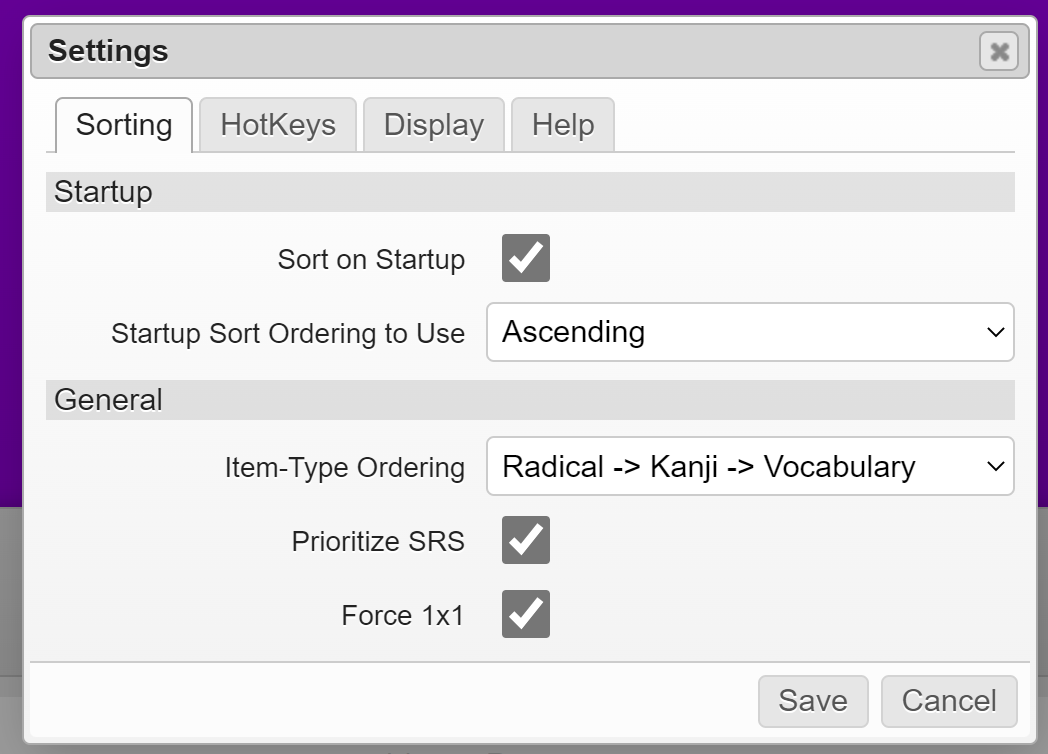
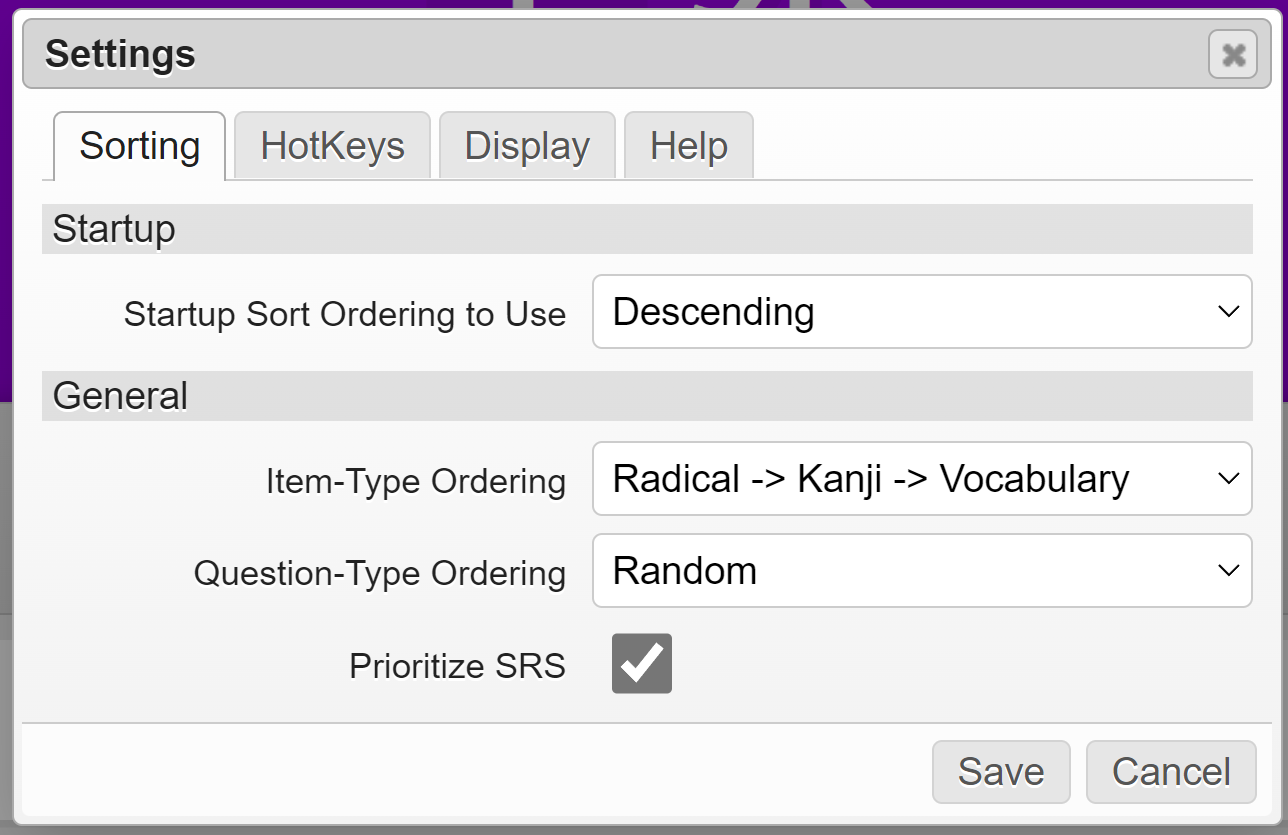
docs(reorder-buttons): update with latest features
In specific, adding a "thank you" list for technical contributions
from other community users, as well as updating sections that mentioned
1x1 mode being around.

Changed region(s): [[0.0, 0.0, 1.0, 1.0]]

diff --git a/wanikani-reorder-buttons/README.md b/wanikani-reorder-buttons/README.md
@@ -7,10 +7,18 @@ This script started is a modified copy of Towe's
 [WaniKani SRS Reorder Button](https://greasyfork.org/en/scripts/29673-wanikani-srs-reorder-button).
 Their original WaniKani community post can be found
 [here](https://community.wanikani.com/t/wanikani-srs-reorder-button/17880). Most
-of the credit for this script goes to them! Major thanks as well to rfindley and
-BIsTheAnswer for their help in the forums, as well as rfindley's publishing of
-the [WaniKani Open
+of the credit for this script goes to them! Major credit goes to rfindley aswell
+for their work maintaining the [WaniKani Open
 Framework](https://github.com/rfindley/wanikani-open-framework)!
+
+## Special Thanks
+
+Below is a list of WK users I'd like to thank for helping maintain this
+userscript with their technical insight!
+
+- rfindley
+- BIsTheAnswer
+- Kumirei
 
 ## Features
 
@@ -80,18 +88,6 @@ not remove the sort buttons in the cog menu, nor will it disable the use of
 [hotkeys](#hotkeys) either.
 
 This setting can be found under the `Display` section of the settings panel.
-
-#### 1x1 Mode
-
-When sorting reviews, it is possible to force 1x1 mode. In 1x1 mode, review
-items will be grouped such that meaning and reading question types will appear
-in immediate succession.
-
-:warning: _it should be noted that the way this is implemented may cause issues
-with other scripts on the page that rely on a functioning `Math.Random`
-function being available_ :warning:
-
-This setting can be found under the `Sorting` section of the settings panel.
 
 ## Install
 
